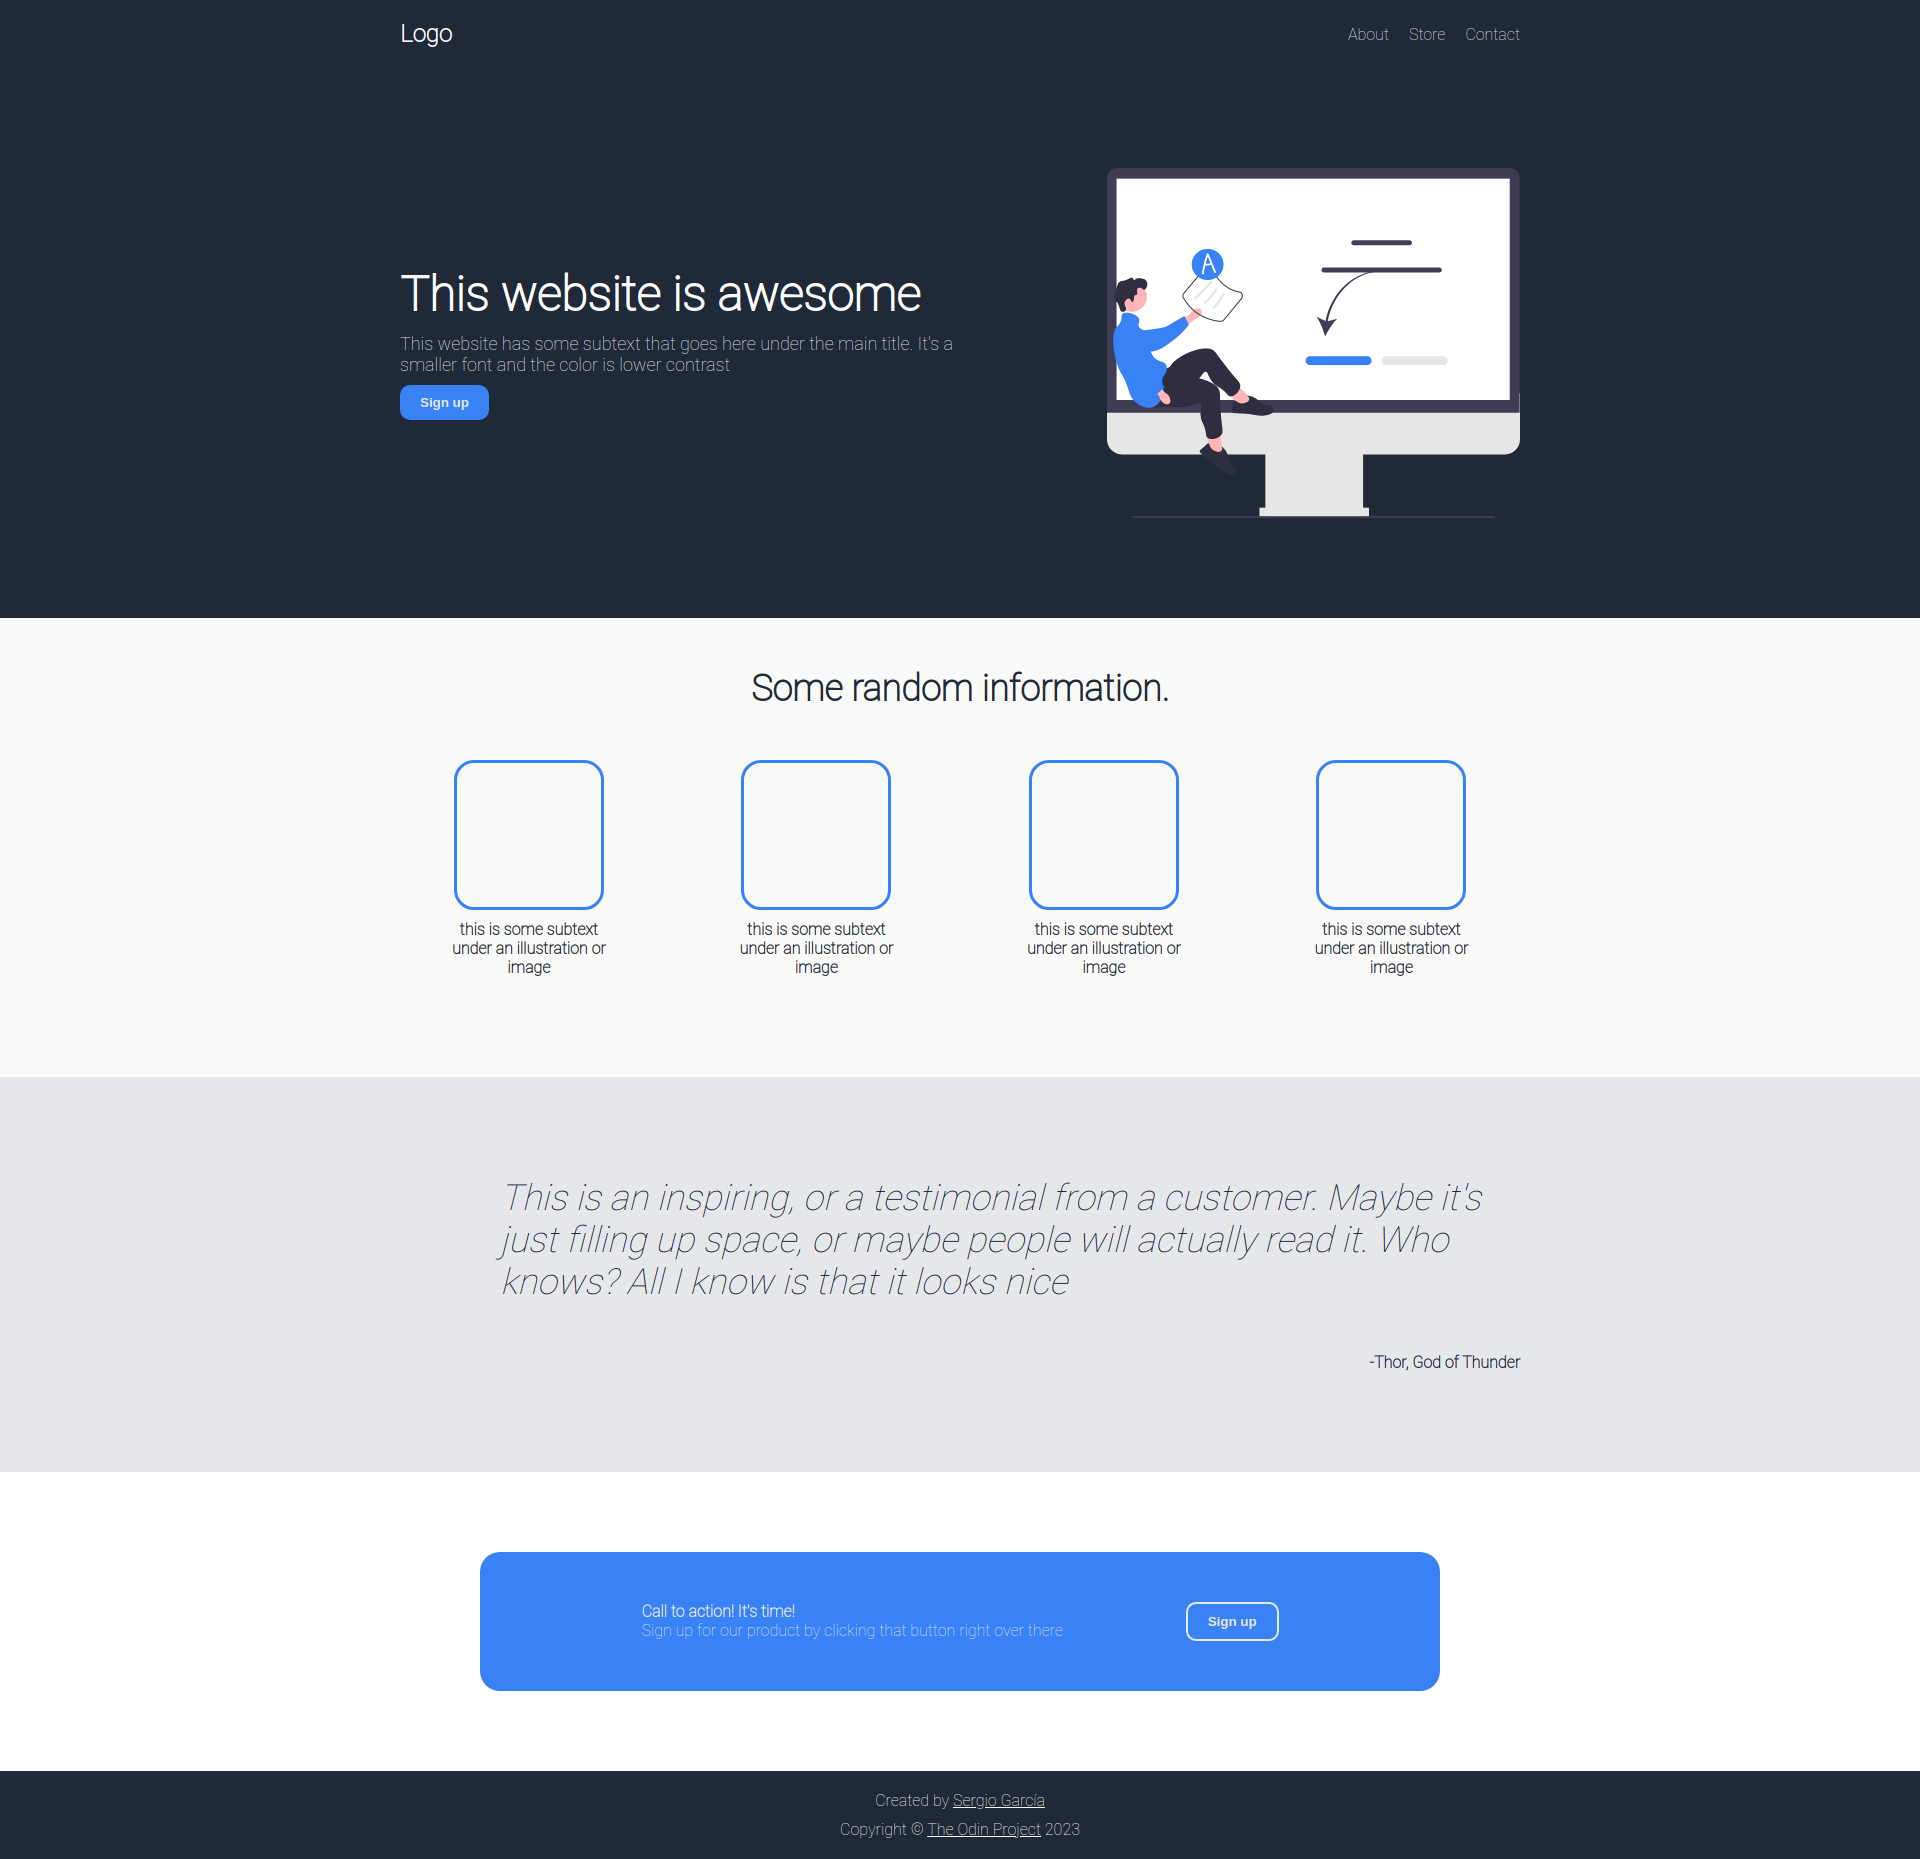
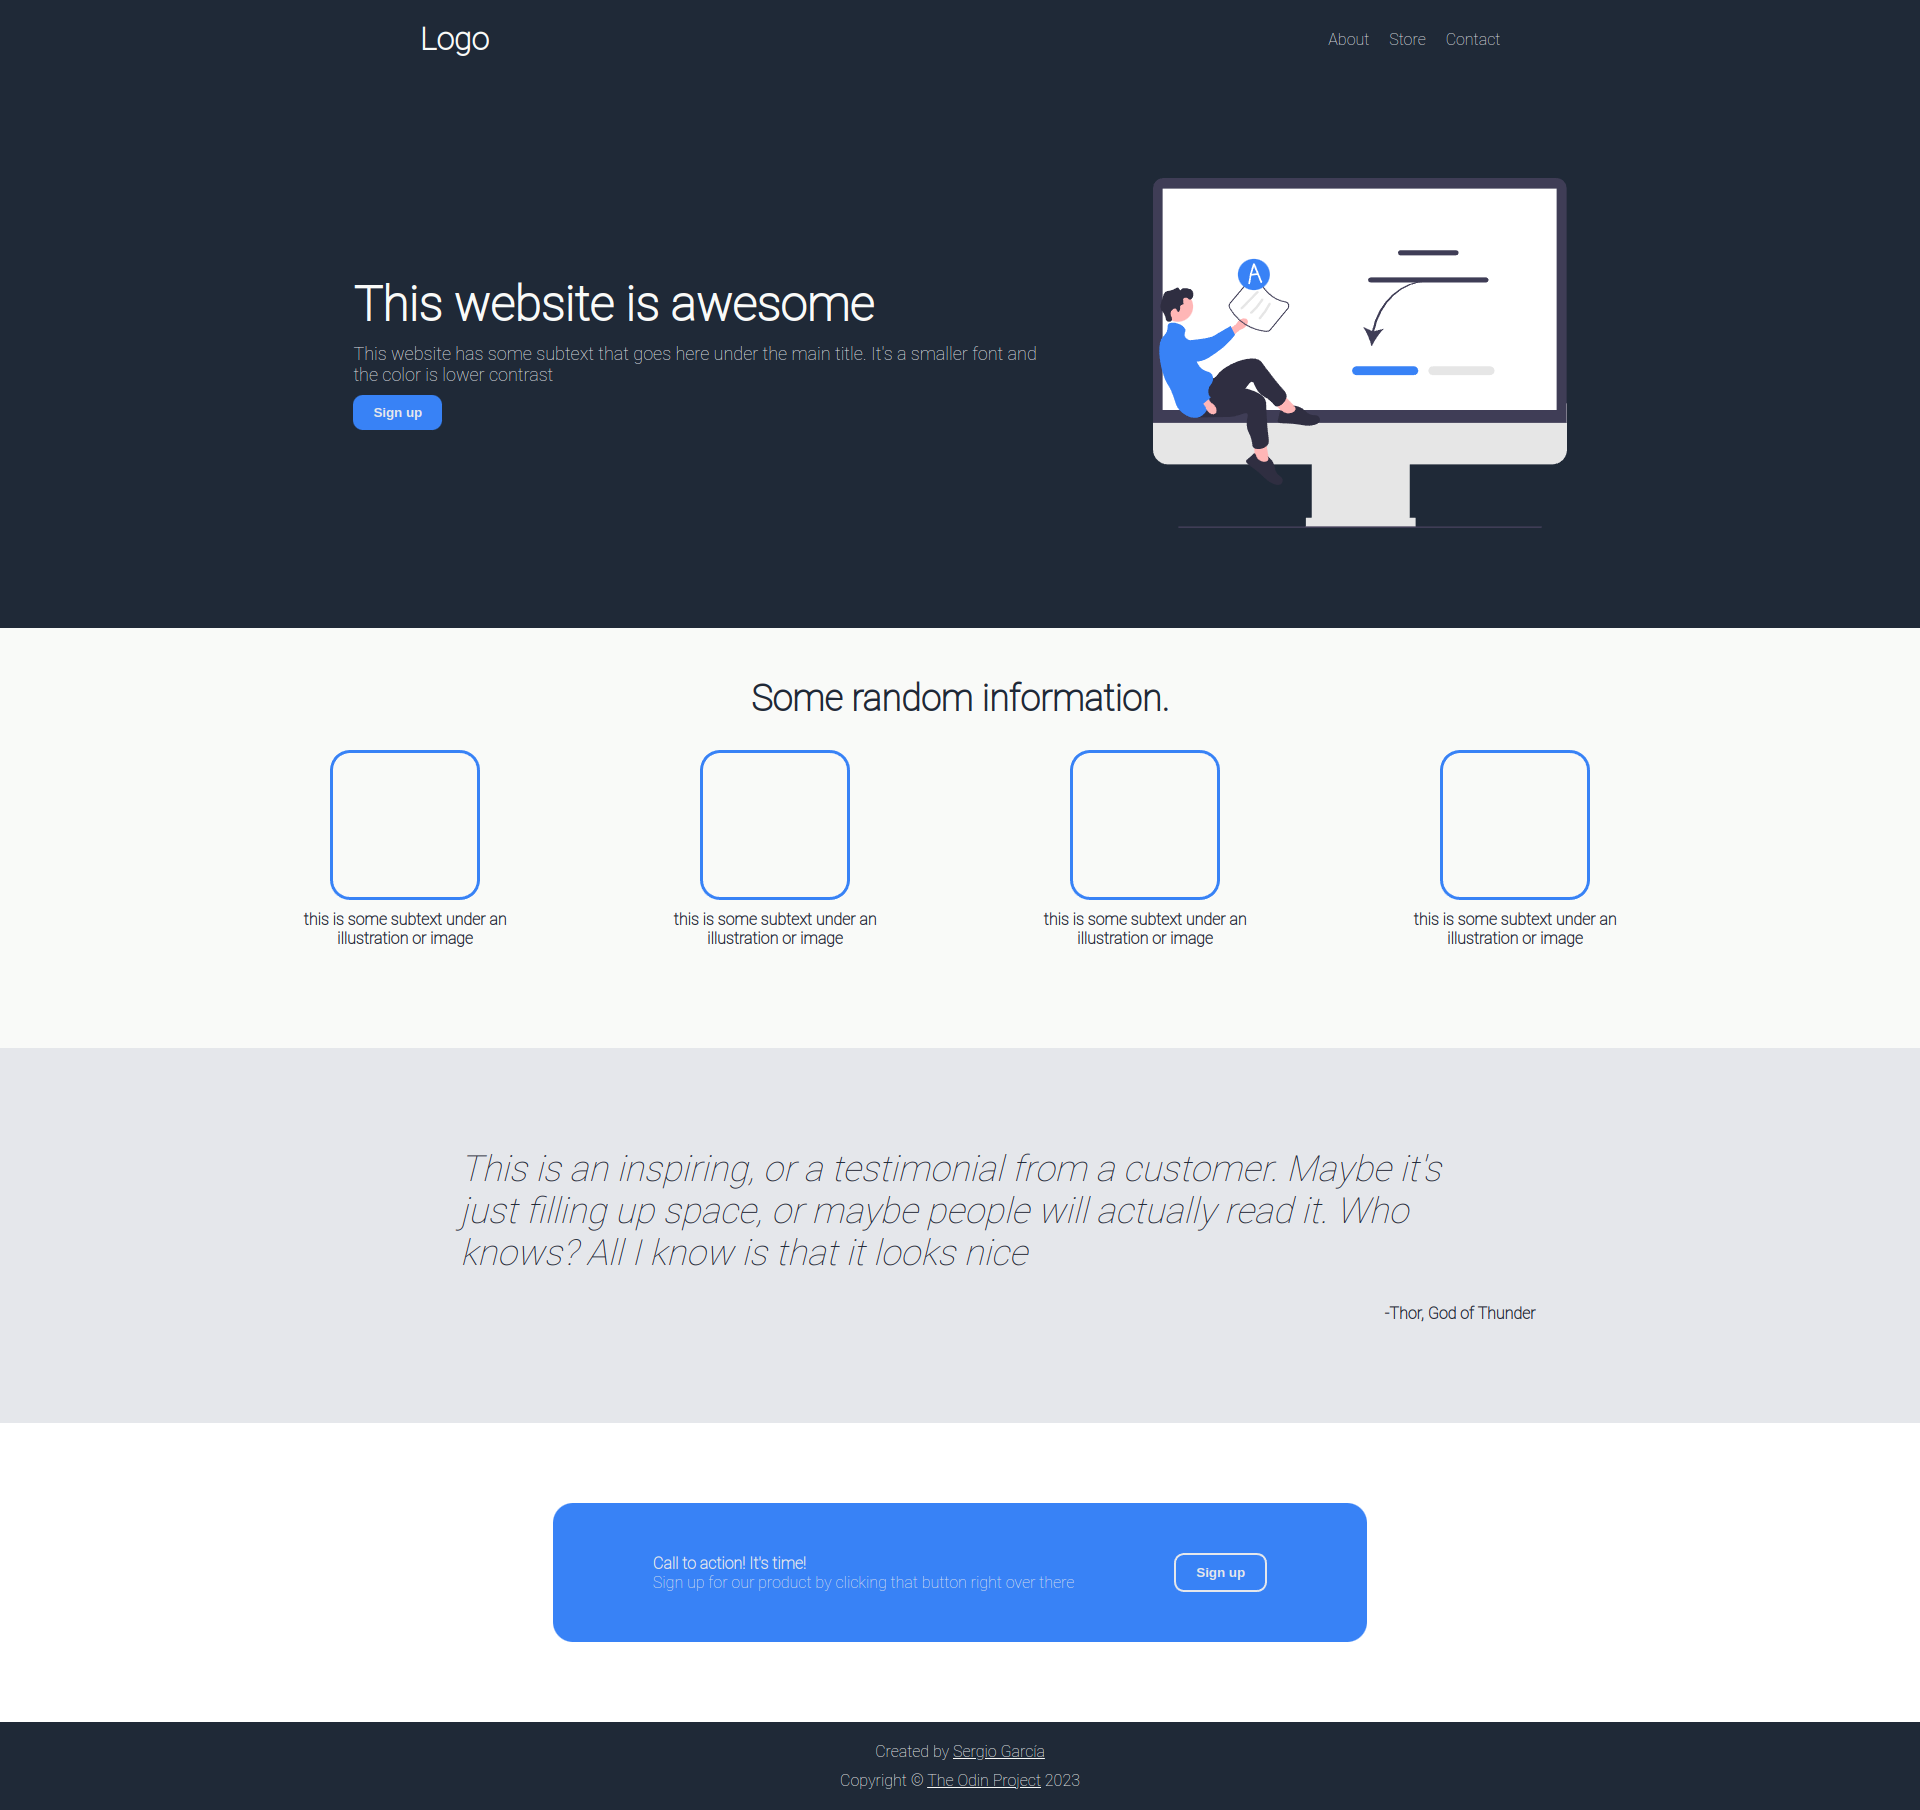
Add responsive compatibility

diff --git a/style.css b/style.css
@@ -10,25 +10,31 @@ body {
 }
 
 .page-container {
+  display: flex;
+  flex-direction: column;
+  justify-content: center;
+  align-items: center;
+
   margin: 0px auto;
 }
 
 /* HEADER */
-.header,
-.section1 {
+.header {
   width: 100%;
-  padding: 20px 400px 100px 400px;
+  padding: 20px 0 100px 0;
 
   display: flex;
-  justify-content: space-between;
+  justify-content: space-around;
   align-items: center;
 
   background-color: #1f2937;
   color: #f9faf8;
+
+  grid-area: header;
 }
 
 .logo {
-  font-size: 24px;
+  font-size: 2rem;
 }
 
 .nav {
@@ -47,12 +53,27 @@ body {
 }
 
 /* SECTION 1 */
+.section1 {
+  width: 100%;
+  padding: 20px 0 100px 0;
+  margin: auto;
+
+  display: flex;
+  justify-content: center;
+  align-items: center;
+  flex-wrap: wrap;
+  gap: 100px;
+
+  background-color: #1f2937;
+  color: #f9faf8;
+}
+
 .section1-image {
   height: 350px;
 }
 
 .text-section {
-  margin-right: 100px;
+  max-width: 700px;
 
   display: flex;
   flex-direction: column;
@@ -86,15 +107,15 @@ body {
 }
 
 /* SECTION 2 */
-.section2,
-.section3 {
+.section2 {
   width: 100%;
-  padding: 50px 400px 100px 400px;
+  padding: 50px 0 100px 0;
 
   display: flex;
   flex-direction: column;
+  justify-content: center;
   align-items: center;
-  gap: 50px;
+  gap: 30px;
 
   background-color: #f9faf8;
   color: #1f2937;
@@ -108,8 +129,9 @@ body {
 .images-container {
   display: flex;
   justify-content: center;
-  gap: 30px;
+  gap: 20px;
 
+  flex-wrap: wrap;
   font-weight: bold;
 }
 
@@ -122,37 +144,49 @@ body {
 }
 
 .individual-image-container > p {
+  max-width: 250px;
   margin: 10px 50px 0px 50px;
   text-align: center;
 }
 
 /* SECTION 3 */
 .section3 {
-  padding: 100px 400px 100px 500px;
+  width: 100%;
+  padding: 100px 0 100px 0;
 
-  align-items: flex-start;
+  display: flex;
+  flex-direction: column;
+  justify-content: center;
+  align-items: center;
+  gap: 30px;
+
+  color: #1f2937;
   background-color: #e5e7eb;
 }
 
 .quote {
   font-size: 36px;
+  max-width: 1000px;
   font-weight: lighter;
   color: #1f2937;
 }
 
 .quote-author {
-  align-self: flex-end;
+  margin-left: 1000px;
   font-weight: bolder;
 }
 
 /* SECTION 4 */
 .section4 {
-  width: 50%;
+  max-width: 1000px;
   padding: 50px 100px;
   margin: 80px auto;
 
   display: flex;
   justify-content: space-around;
+  align-items: center;
+  flex-wrap: wrap;
+  gap: 100px;
 
   background-color: #3882f6;
   color: #e5e7eb;
@@ -170,6 +204,7 @@ body {
 
 /* FOOTER */
 .footer {
+  width: 100%;
   padding: 20px 0;
   background-color: #1f2937;
   text-align: center;
@@ -186,4 +221,29 @@ body {
 
 .footer a:hover {
   color: #3882f6;
+}
+
+/* RESPONSIVE */
+@media (max-width: 1200px) {
+  .sign-button {
+    align-self: center;
+  }
+
+  .text-section {
+    text-align: center;
+  }
+
+  .quote {
+    text-align: center;
+  }
+
+  .quote-author {
+    margin-left: 0;
+  }
+
+  .section4 {
+    text-align: center;
+    padding: 25px 50px;
+    gap: 20px;
+  }
 }

diff --git a/README.md b/README.md
@@ -13,7 +13,7 @@ A simple landing page created with html and css
 
 ## Author
 
-- [Sergio García](https://github.com/sergiogarciiam)
+[Sergio García](https://github.com/sergiogarciiam)
 
 ## License
 
